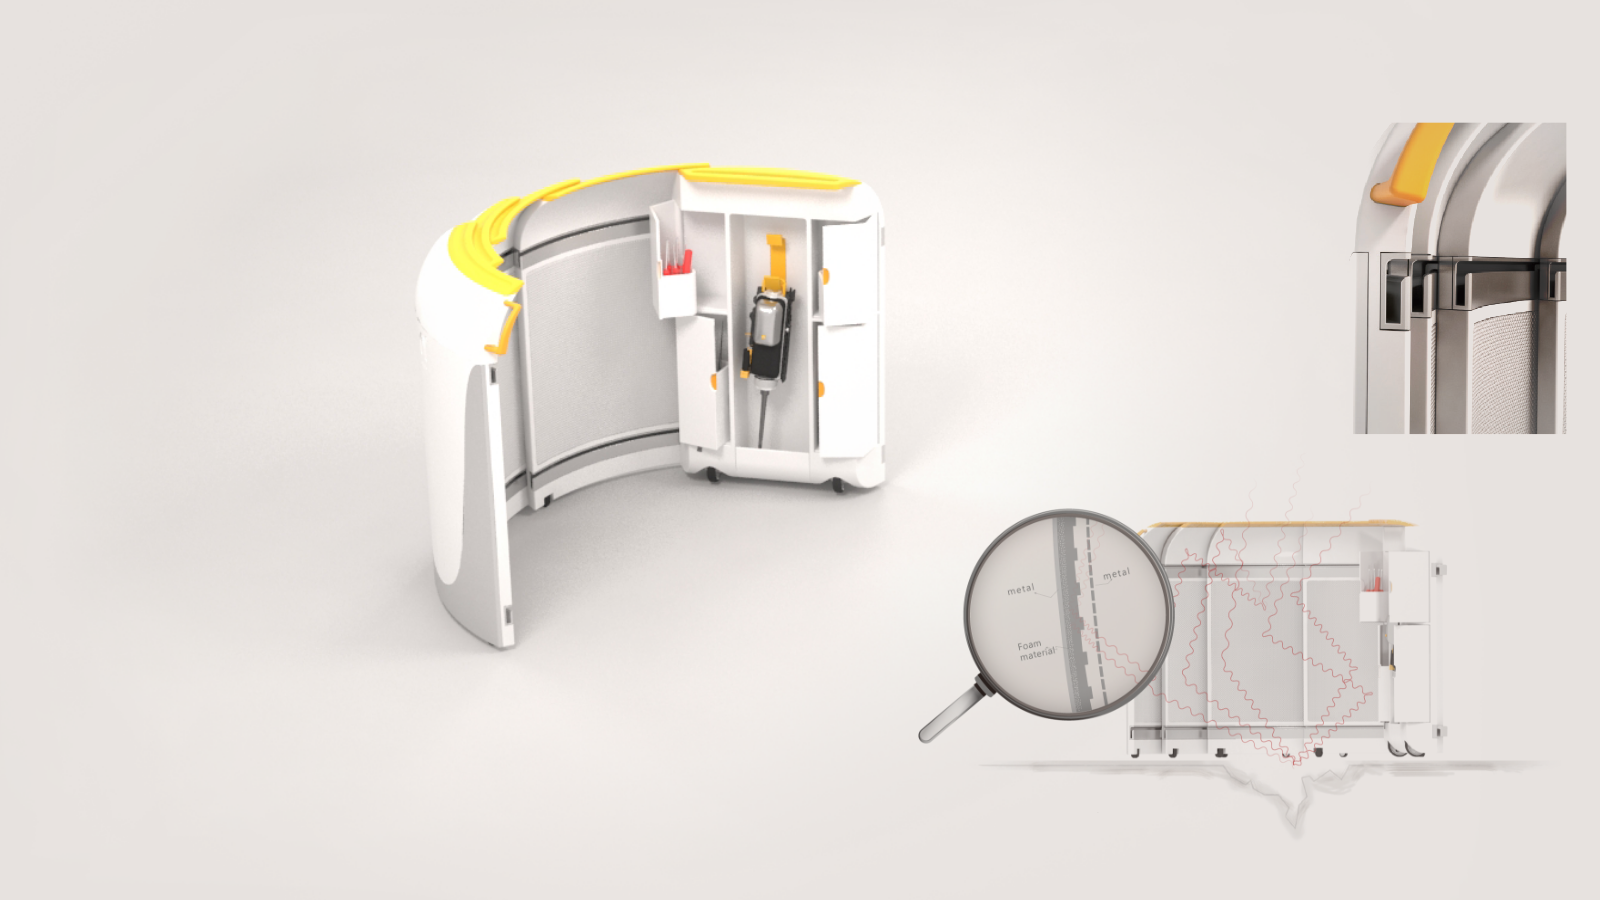
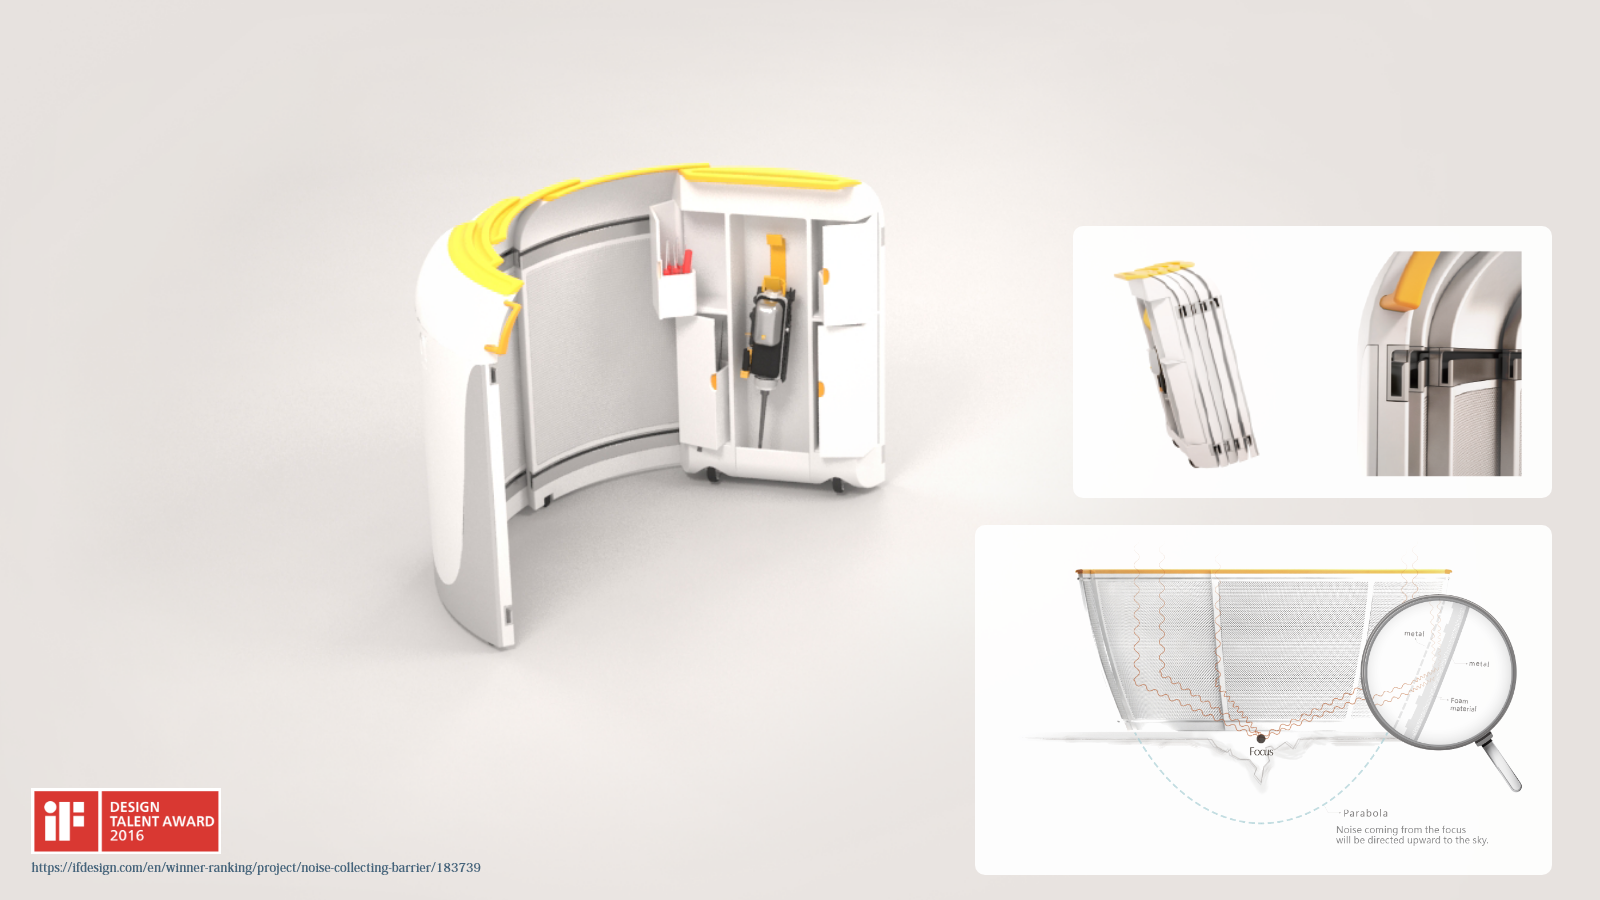
001

Changed region(s): [[0.5625, 0.1244, 1.0, 0.9956], [0.0, 0.8711, 0.1562, 0.9644]]

diff --git a/portfolio/v_3d.html b/portfolio/v_3d.html
@@ -58,19 +58,21 @@
 				<img style=" max-width: 1500px;" class="pt-md mb-xs">
 				<img style="width: 40%; bottom: 24px; transform: translateY(0px);" class="move-by-scroll">
 			</div>
-			<h6 class="gray">3d Max, V-ray, Photoshop</h6>
+			<h6 class="gray">SolidWork, 3d Max, V-ray, Photoshop</h6>
 
 			<img id="img04" style="max-width: 1500px;" class="scrollSession pt-md mt-xl mb-xs">
-			<h6 class="gray">3d Max, V-ray, Photoshop</h6>
+			<h6 class="gray"><a
+					href="https://ifdesign.com/en/winner-ranking/project/noise-collecting-barrier/183739">SolidWork, 3d
+					Max, V-ray, Photoshop</a></h6>
 
 			<img id="img05" style="max-width: 1500px;" class="scrollSession pt-md mt-xl mb-xs">
-			<h6 class="gray">3d Max, V-ray, Photoshop</h6>
+			<h6 class="gray">SolidWork, 3d Max, V-ray, Photoshop</h6>
 
 			<img id="img06" style=" max-width: 1500px;" class="scrollSession pt-md mt-xl mb-xs">
-			<h6 class="gray">3d Max, V-ray, Photoshop</h6>
+			<h6 class="gray">SolidWork, 3d Max, V-ray, Photoshop</h6>
 
 			<img id="img07" style=" max-width: 1500px;" class="scrollSession pt-md mt-xl mb-xs">
-			<h6 class="gray">3d Max, V-ray, Photoshop</h6>
+			<h6 class="gray">SolidWork, 3d Max, V-ray, Photoshop</h6>
 
 
 			<a id="lastBtn" class="icon-btn po-fixed hidden" style="bottom: 5%;right: 76px;">arrow_upward</a>

diff --git a/portfolio/js/app.js b/portfolio/js/app.js
@@ -49,7 +49,7 @@ var worknameBox = [
 	"c_party",
 	"c_test",
 	"c_an",
-	""
+	"d_wall"
 ]
 var worknameBoxTag = [
 	["home"],
@@ -106,7 +106,7 @@ var worknameBoxFull = [
 	"Party Game",
 	"Prototypes and Tools",
 	"The interactive animation</br>for a marketing campaign",
-	""
+	"Nosice control system"
 ]
 
 
